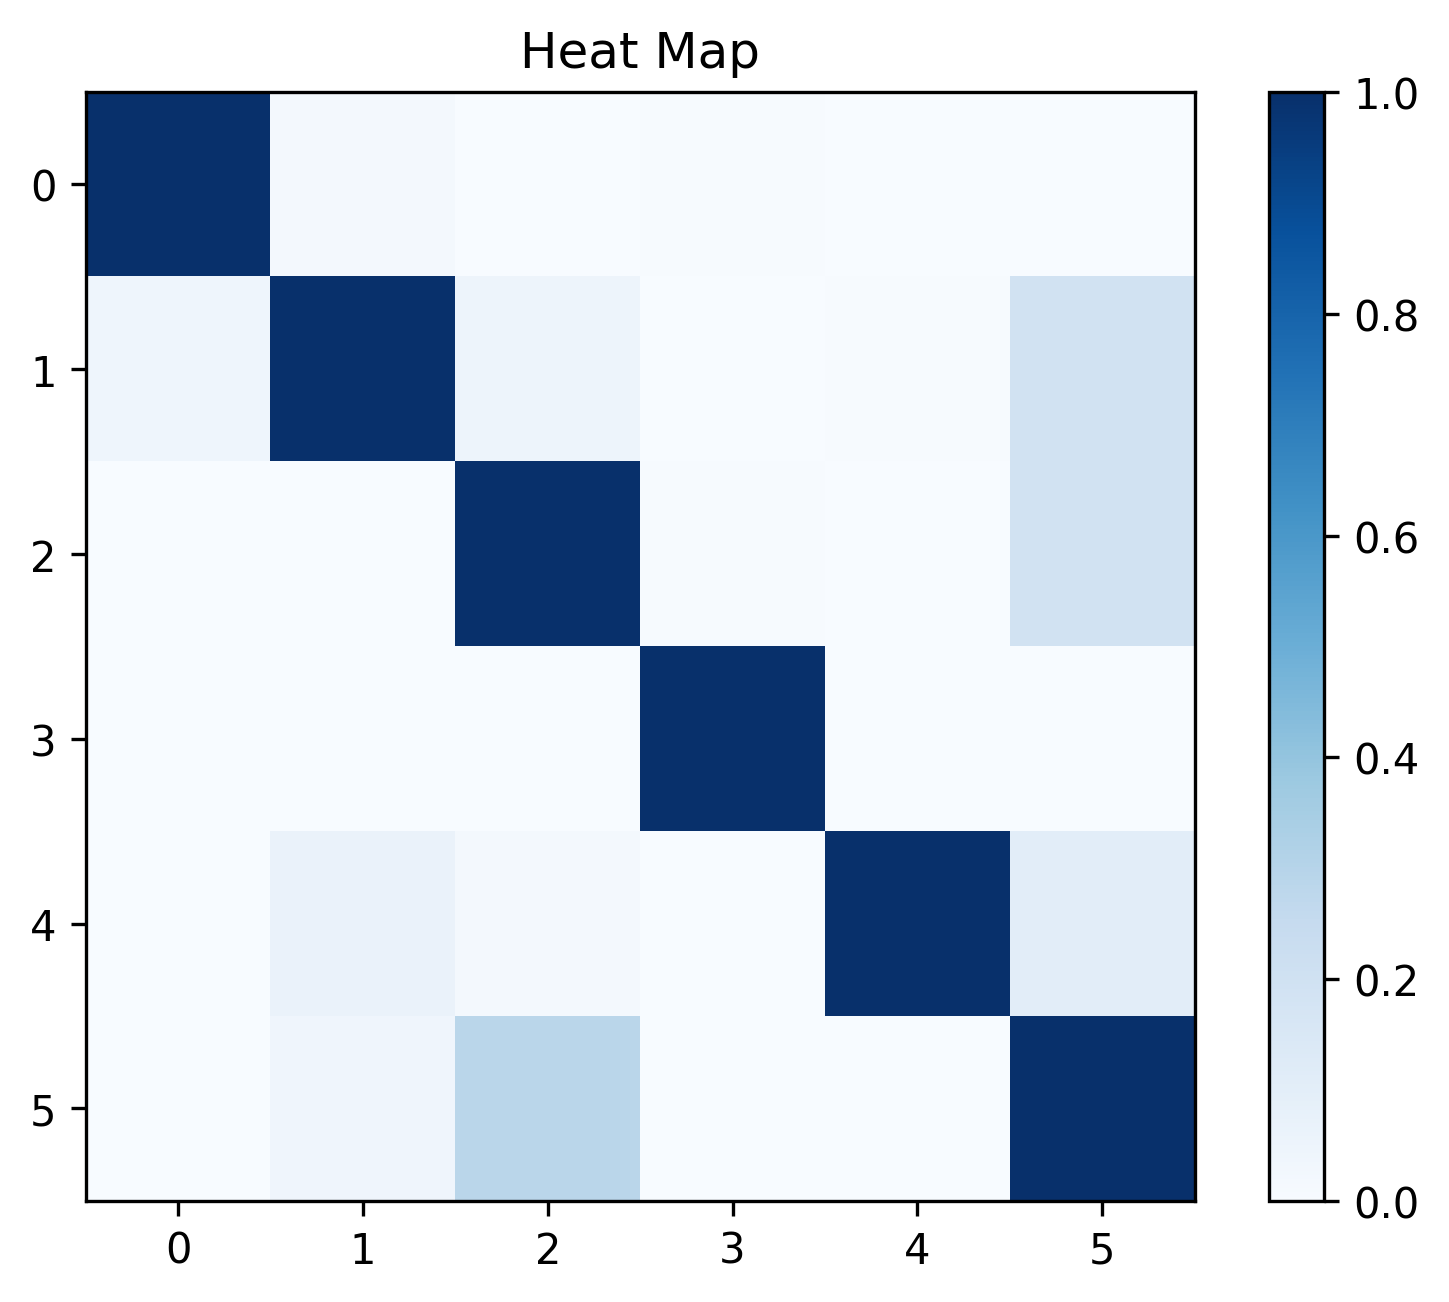
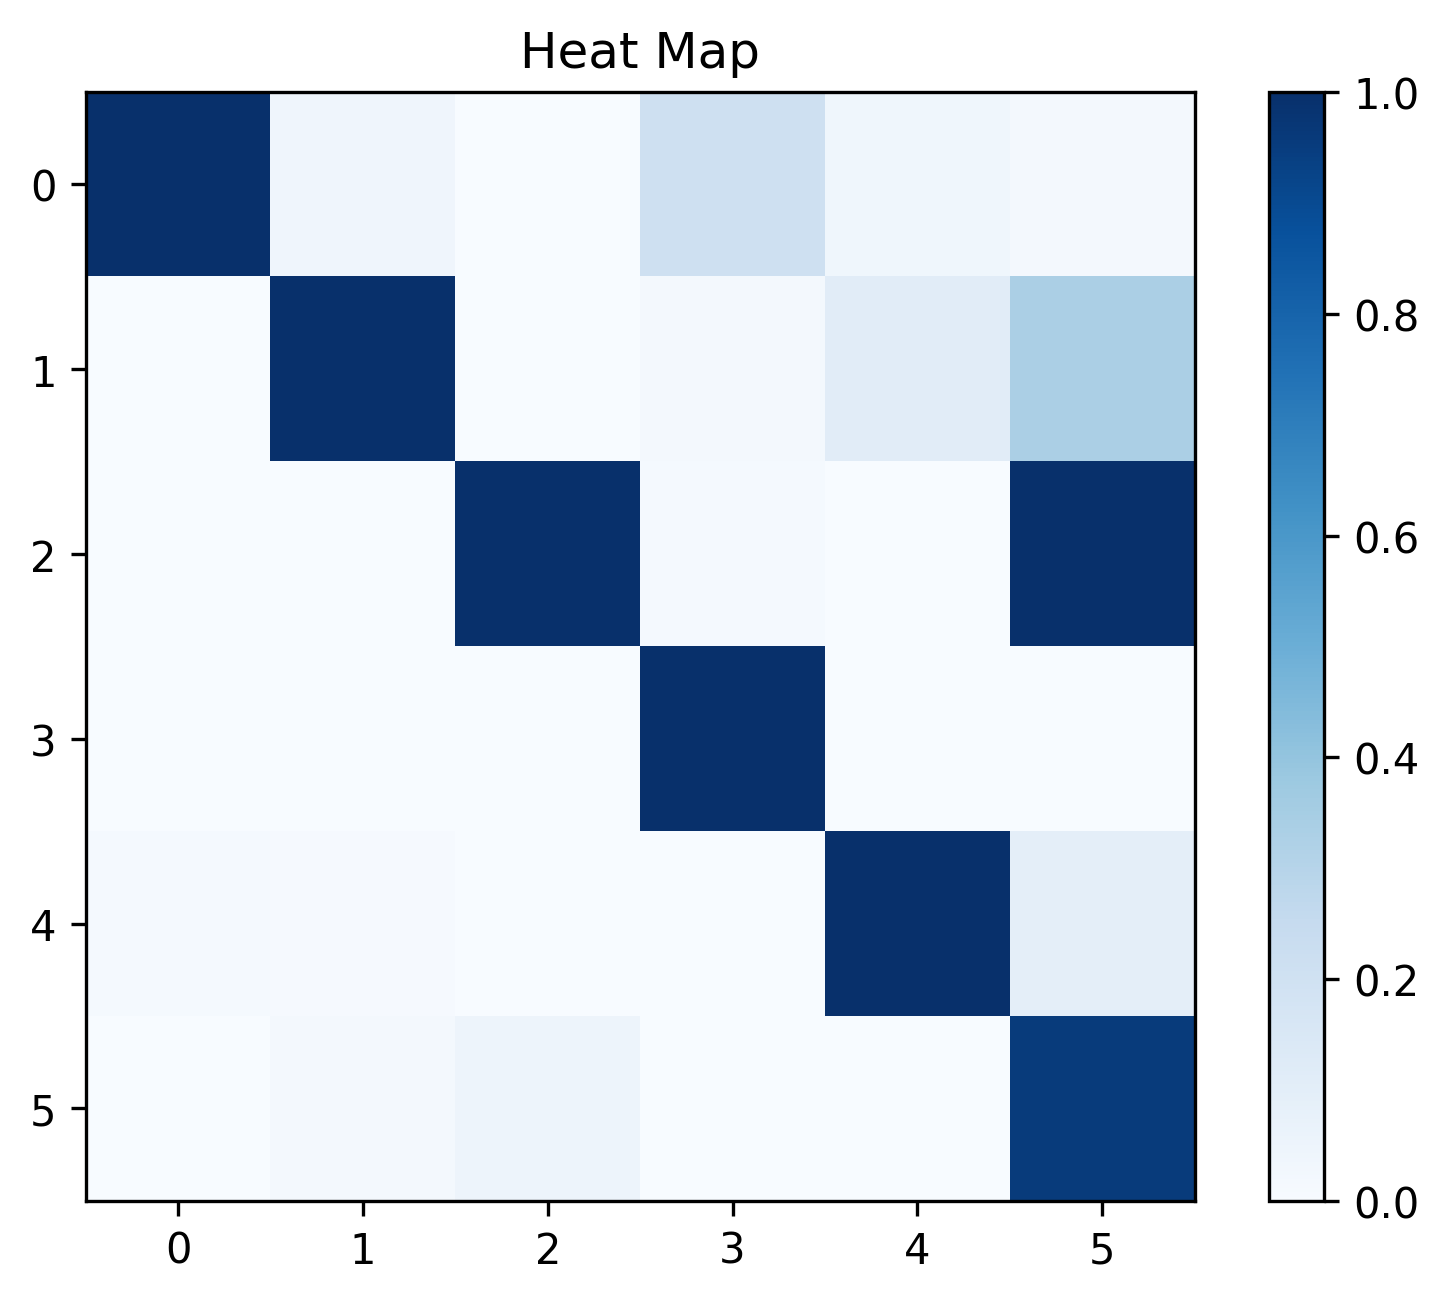
attention loss included

Changed region(s): [[0.6832, 0.2151, 0.8385, 0.5223], [0.4348, 0.0614, 0.5901, 0.2151], [0.3106, 0.768, 0.4658, 0.9217]]

diff --git a/trainer.py b/trainer.py
@@ -145,7 +145,7 @@ class Trainer:
         for param_group in optimizer.param_groups:
             return param_group['lr']
 
-    def train(self, batch_size, epoches, lr, bias_lr, max_size, T = 4):
+    def train(self, batch_size, epoches, lr, bias_lr, max_size, T = 4, evt_threshold = 0.75, beta = 0.5):
         total_cls = self.total_cls
         criterion = nn.CrossEntropyLoss()
         exemplar = Exemplar(max_size, total_cls)
@@ -275,7 +275,7 @@ class Trainer:
                         self.bias_layers[_].eval()
                     #self.bias_layers[_].eval()
                 if inc_i > 0:
-                    self.stage1_distill(train_data, criterion, optimizer, num_new_cls, T = T)
+                    self.stage1_distill(train_data, criterion, optimizer, num_new_cls, T = T, beta = beta)
                 else:
                     self.stage1_initial(train_data, criterion, optimizer)
                 acc = self.validation(eval_data, inc_i)
@@ -507,31 +507,37 @@ class Trainer:
             losses.append(loss.item())
         print("stage1 loss :", np.mean(losses))
 
-    def stage1_distill(self, train_data, criterion, optimizer, num_new_cls, T=4):
+    def stage1_distill(self, train_data, criterion, optimizer, num_new_cls, T=4, beta=0.5):
         print("Training ... ")
         distill_losses = []
         ce_losses = []
-        #alpha = (self.seen_cls - 20)/ self.seen_cls
-                #alpha = (self.seen_cls - (self.total_cls // self.dataset.batch_num)) / self.seen_cls
-                # modify to flexible class number 
-        ###### Might be problems on alpha calculation 
         alpha = (self.seen_cls - self.num_new_cls[-1]) / (self.seen_cls) 
-#########################################################################################################################################        
+        beta = beta
         print("classification proportion 1-alpha = ", 1-alpha)
         optimizer.zero_grad()
         for i, (image, label) in enumerate(tqdm(train_data)):
             image = image.cuda()
             label = label.view(-1).cuda()
-            p = self.model(image)
+            p, feats = self.model(image, return_features=False, return_attentions=True)
             p = self.bias_forward(p)
             with torch.no_grad():
-                pre_p = self.previous_model(image)
+                pre_p, pre_feats = self.previous_model(image, return_features=False, return_attentions=True)
                 pre_p = self.bias_forward(pre_p)
                 pre_p = F.softmax(pre_p[:,:self.seen_cls-num_new_cls]/T, dim=1)  
             logp = F.log_softmax(p[:,:self.seen_cls-num_new_cls]/T, dim=1)       
             loss_soft_target = -torch.mean(torch.sum(pre_p * logp, dim=1))
             loss_hard_target = nn.CrossEntropyLoss()(p[:,:self.seen_cls], label)
-            loss = loss_soft_target * T * T + (1-alpha) * loss_hard_target
+            attn_loss = 0
+            for f, pf in zip(feats, pre_feats):
+                attn = self.get_attention_map(f)
+                pre_attn = self.get_attention_map(pf)
+                attn_loss += F.mse_loss(attn, pre_attn)
+                if not torch.isfinite(attn).all():
+                    print("Non-finite student_attn:", attn)
+                if not torch.isfinite(pre_attn).all():
+                    print("Non-finite teacher_attn:", pre_attn)
+            attn_loss /= len(feats)
+            loss = loss_soft_target * T * T + (1 - alpha) * loss_hard_target + beta * attn_loss
 
             loss.backward(retain_graph=True)
             if (i + 1) % 13 == 0:
@@ -560,3 +566,17 @@ class Trainer:
             optimizer.step()
             losses.append(loss.item())
         print("stage2 loss :", np.mean(losses))
+
+    def get_attention_map(self, feature_map, eps=1e-6):
+         # feature_map: [B, C, H, W]
+         attn_map = torch.norm(feature_map, p=2, dim=1)  # [B, H, W]
+         attn_map = attn_map.view(attn_map.size(0), -1)  # [B, H*W]
+ 
+         attn_map = attn_map - attn_map.min(dim=1, keepdim=True)[0]  # 归一化前减最小值
+         attn_map = attn_map / (attn_map.max(dim=1, keepdim=True)[0] + eps)  # 避免除以0
+ 
+         if not torch.isfinite(attn_map).all():
+             print("attention map contains NaN/Inf")
+             attn_map = torch.nan_to_num(attn_map, nan=0.0, posinf=0.0, neginf=0.0)
+         
+         return attn_map

diff --git a/main.py b/main.py
@@ -6,17 +6,18 @@ from utils import *
 import argparse
 
 parser = argparse.ArgumentParser(description='Incremental Learning BIC')
-parser.add_argument('--batch_size', default = 10, type = int)
-parser.add_argument('--epoch', default = 1, type = int) # small values for debug
+parser.add_argument('--batch_size', default = 8, type = int)
+parser.add_argument('--epoch', default = 24, type = int) # small values for debug
 parser.add_argument('--lr', default = 0.01, type = float) 
 parser.add_argument('--max_size', default = 400, type = int)
 parser.add_argument('--init_cls', default = 0, type = int)  #### total_cls=100 -> init_cls=0
 parser.add_argument('--distill_temperature', default = 4, type = float)
 parser.add_argument('--bias_lr', default = 0.001, type = float)
+parser.add_argument('--beta',default= 0.5, type = float)
 args = parser.parse_args()
 
 
 if __name__ == "__main__":
     showGod()
     trainer = Trainer(args.init_cls)
-    trainer.train(args.batch_size, args.epoch, args.lr, args.bias_lr, args.max_size, T = args.distill_temperature)
+    trainer.train(args.batch_size, args.epoch, args.lr, args.bias_lr, args.max_size, T = args.distill_temperature, beta = args.beta)

diff --git a/model.py b/model.py
@@ -141,20 +141,29 @@ class PreResNet(nn.Module):
 
         return nn.Sequential(*layers)
 
-    def forward(self, x):
+    def forward(self, x, return_features=False, return_attentions=False):
         x = self.conv1(x)
 
-        x = self.layer1(x)  # 32x32
-        x = self.layer2(x)  # 16x16
-        x = self.layer3(x)  # 8x8
-        x = self.bn(x)
+        f1 = self.layer1(x)  # 32x32
+        f2 = self.layer2(f1)  # 16x16
+        f3 = self.layer3(f2)  # 8x8
+        x = self.bn(f3)
         x = self.relu(x)
 
         x = self.avgpool(x)
         x = x.view(x.size(0), -1)
-        x = self.fc(x)
+        logits = self.fc(x)
 
-        return x
+        features = x.view(x.size(0), -1)    
+        logits = self.fc(features)  # [B, C]
+
+        if return_attentions==True:
+             return logits, [f1, f2, f3]
+
+        if return_features==True:
+            return logits, features
+        
+        return logits
 
 
 def preresnet(**kwargs):
